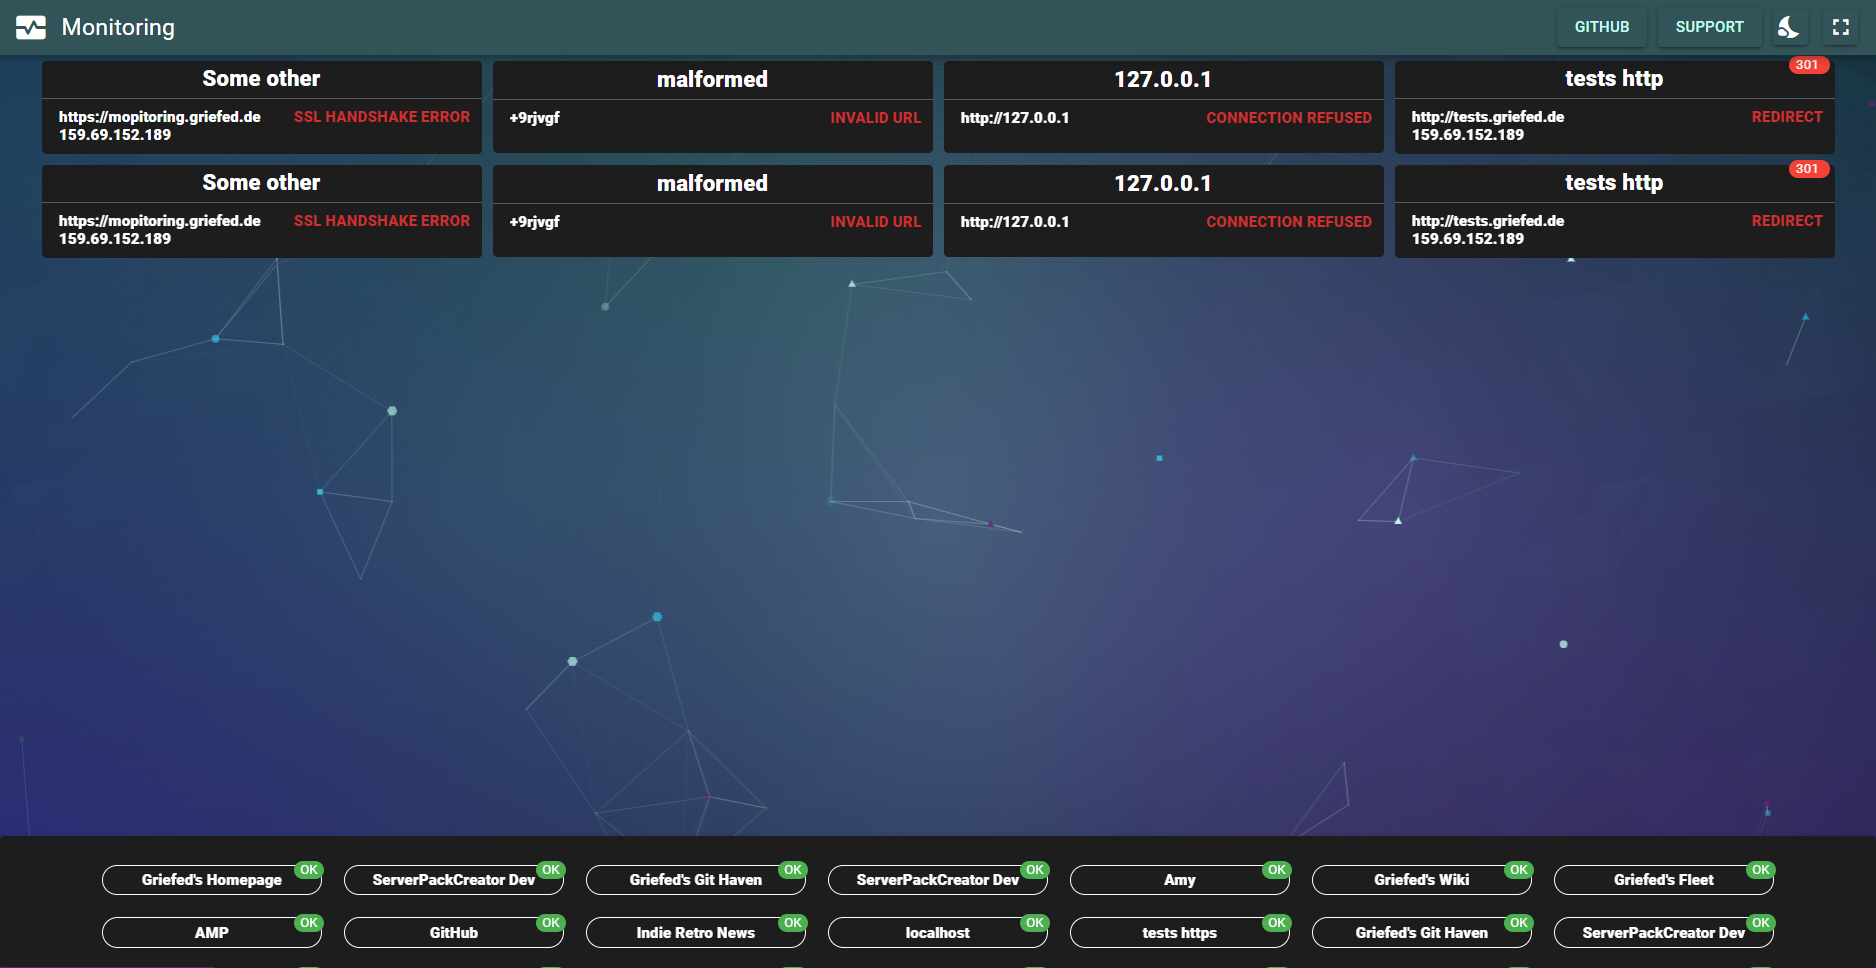
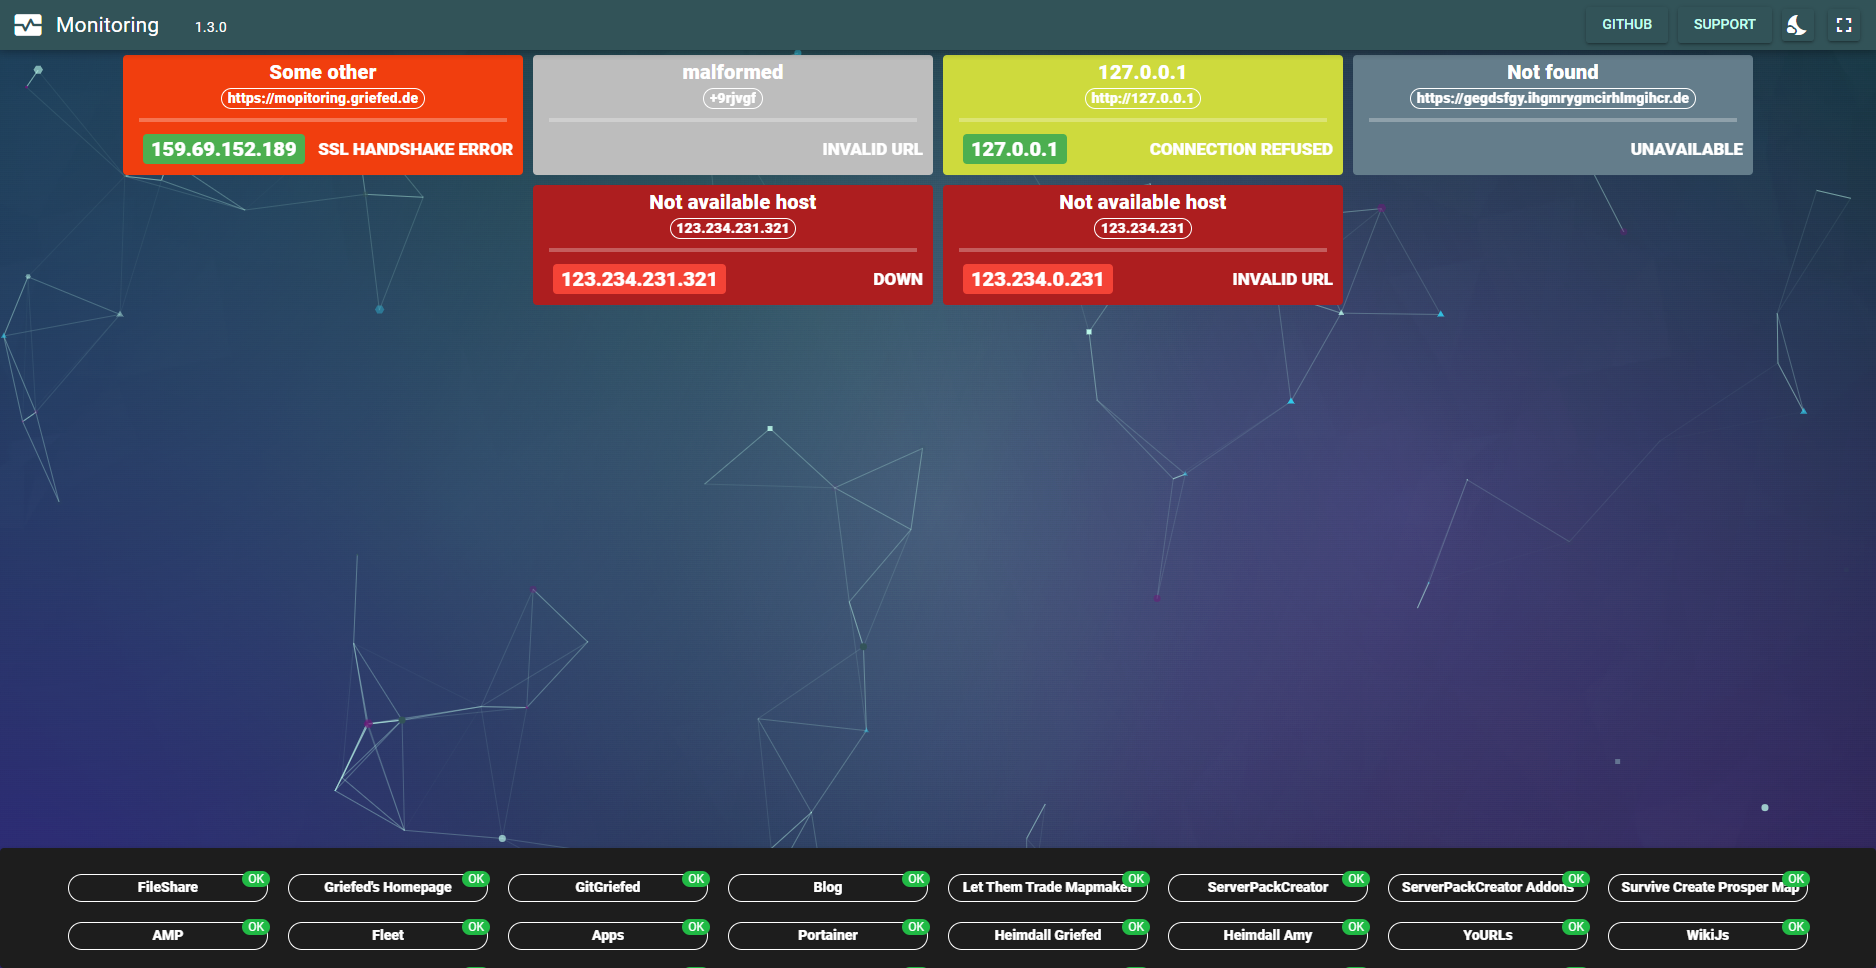
chore(README): Update screenshots in README

Changed region(s): [[0.0, 0.0, 1.0, 0.3409], [0.0, 0.8368, 1.0, 1.0], [0.1855, 0.7438, 0.2164, 0.8058]]

diff --git a/backend/main/resources/README.md b/backend/main/resources/README.md
@@ -22,9 +22,7 @@ For questions, you can always join my [Discord server](https://discord.griefed.d
 [![GitHub Repo stars](https://img.shields.io/github/stars/Griefed/monitoring?label=GitHub%20Stars&style=for-the-badge&logo=Github&labelColor=325358&color=c0ffee)](https://github.com/Griefed/Monitoring)
 [![GitHub forks](https://img.shields.io/github/forks/Griefed/monitoring?label=GitHub%20Forks&style=for-the-badge&logo=Github&labelColor=325358&color=c0ffee)](https://github.com/Griefed/Monitoring)
 
-A small amateur-ish Java program making use of the Spring Boot and Quasar frameworks to provide a webinterface to monitor the host as well as any configured agent.
-
-**All IPs and infos in these screenshots are test instances or VMs which got disposed of after these tests.
+A small Java monitoring program. Displays problematic hosts depending on their status.
 
 | Light mode                   | Dark mode                  |
 |------------------------------|----------------------------|
@@ -76,7 +74,7 @@ Bear in mind that the more ports you configure, the longer it can take to determ
 
 # Default configuration
 
-Default values are: 
+Default values are:
 
 ```properties
 server.port=8080

diff --git a/README.md b/README.md
@@ -22,9 +22,7 @@ For questions, you can always join my [Discord server](https://discord.griefed.d
 [![GitHub Repo stars](https://img.shields.io/github/stars/Griefed/monitoring?label=GitHub%20Stars&style=for-the-badge&logo=Github&labelColor=325358&color=c0ffee)](https://github.com/Griefed/Monitoring)
 [![GitHub forks](https://img.shields.io/github/forks/Griefed/monitoring?label=GitHub%20Forks&style=for-the-badge&logo=Github&labelColor=325358&color=c0ffee)](https://github.com/Griefed/Monitoring)
 
-A small amateur-ish Java program making use of the Spring Boot and Quasar frameworks to provide a webinterface to monitor the host as well as any configured agent.
-
-**All IPs and infos in these screenshots are test instances or VMs which got disposed of after these tests.
+A small Java monitoring program. Displays problematic hosts depending on their status.
 
 | Light mode                   | Dark mode                  |
 |------------------------------|----------------------------|
